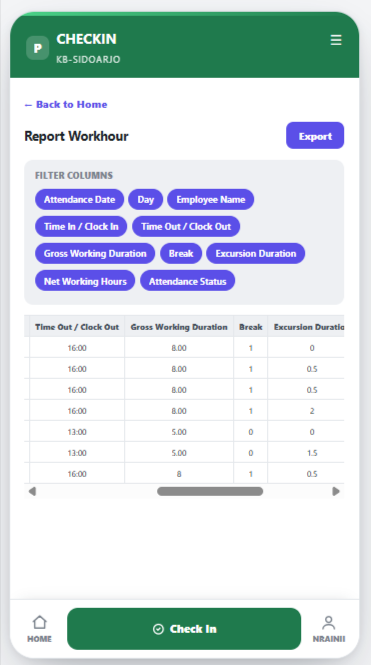
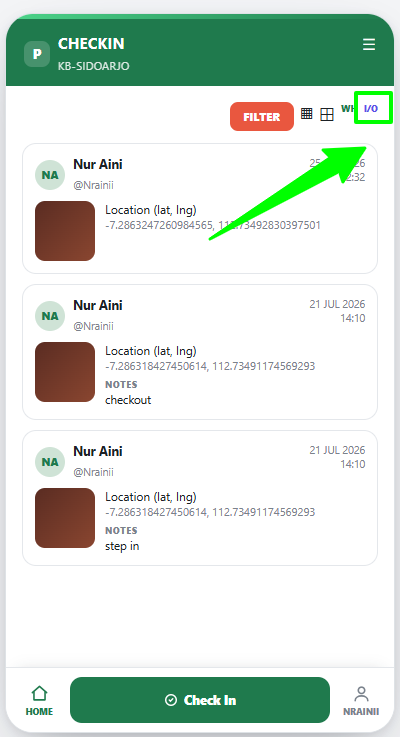
GITBOOK-189: fixing

Changed region(s): [[0.0, 0.0, 1.0, 1.0], [0.8895, 0.7218, 0.9191, 0.7519]]

diff --git a/acceptance-criteria/export-and-filter-step-in-and-out.md b/acceptance-criteria/export-and-filter-step-in-and-out.md
@@ -5,6 +5,9 @@
 * Given I already logged in
 * And I on the page `/checkin`
 * When I click button O/I
+
+<figure><img src="../.gitbook/assets/image (80).png" alt=""><figcaption></figcaption></figure>
+
 * And I select filter period from 01/08/2026 and to 31/08/2026
 
 <figure><img src="../.gitbook/assets/image (66).png" alt=""><figcaption></figcaption></figure>
@@ -26,6 +29,9 @@
 * Given I already logged in
 * And I on the page `/checkin`
 * When click button O/I
+
+<figure><img src="../.gitbook/assets/image (93).png" alt=""><figcaption></figcaption></figure>
+
 * And I click export
 
 <figure><img src="../.gitbook/assets/image (85).png" alt=""><figcaption></figcaption></figure>

diff --git a/acceptance-criteria/report-step-in-and-out.md b/acceptance-criteria/report-step-in-and-out.md
@@ -13,6 +13,9 @@
 * And I on the page `/checkin`
 * And I have data step out - step in as below
 * When I click O/I
+
+<figure><img src="../.gitbook/assets/image (72).png" alt=""><figcaption></figcaption></figure>
+
 * Then I can see data following the formula
   * Total step in - step out = Step out - Step in
 
